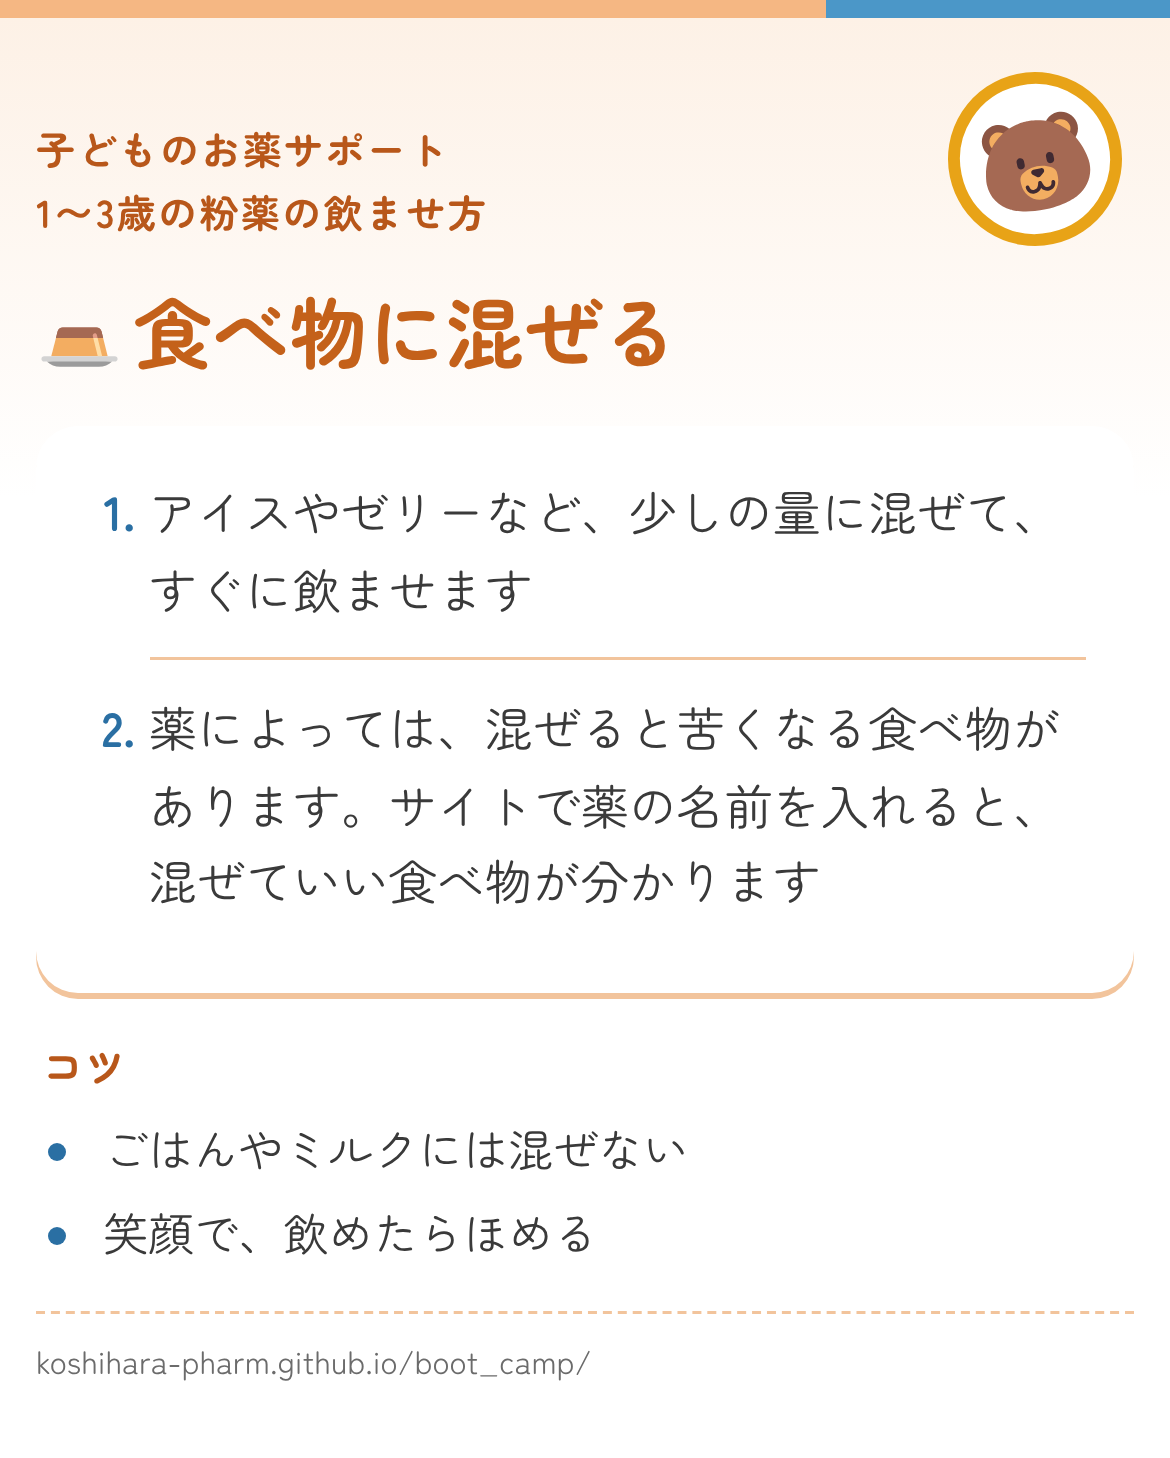
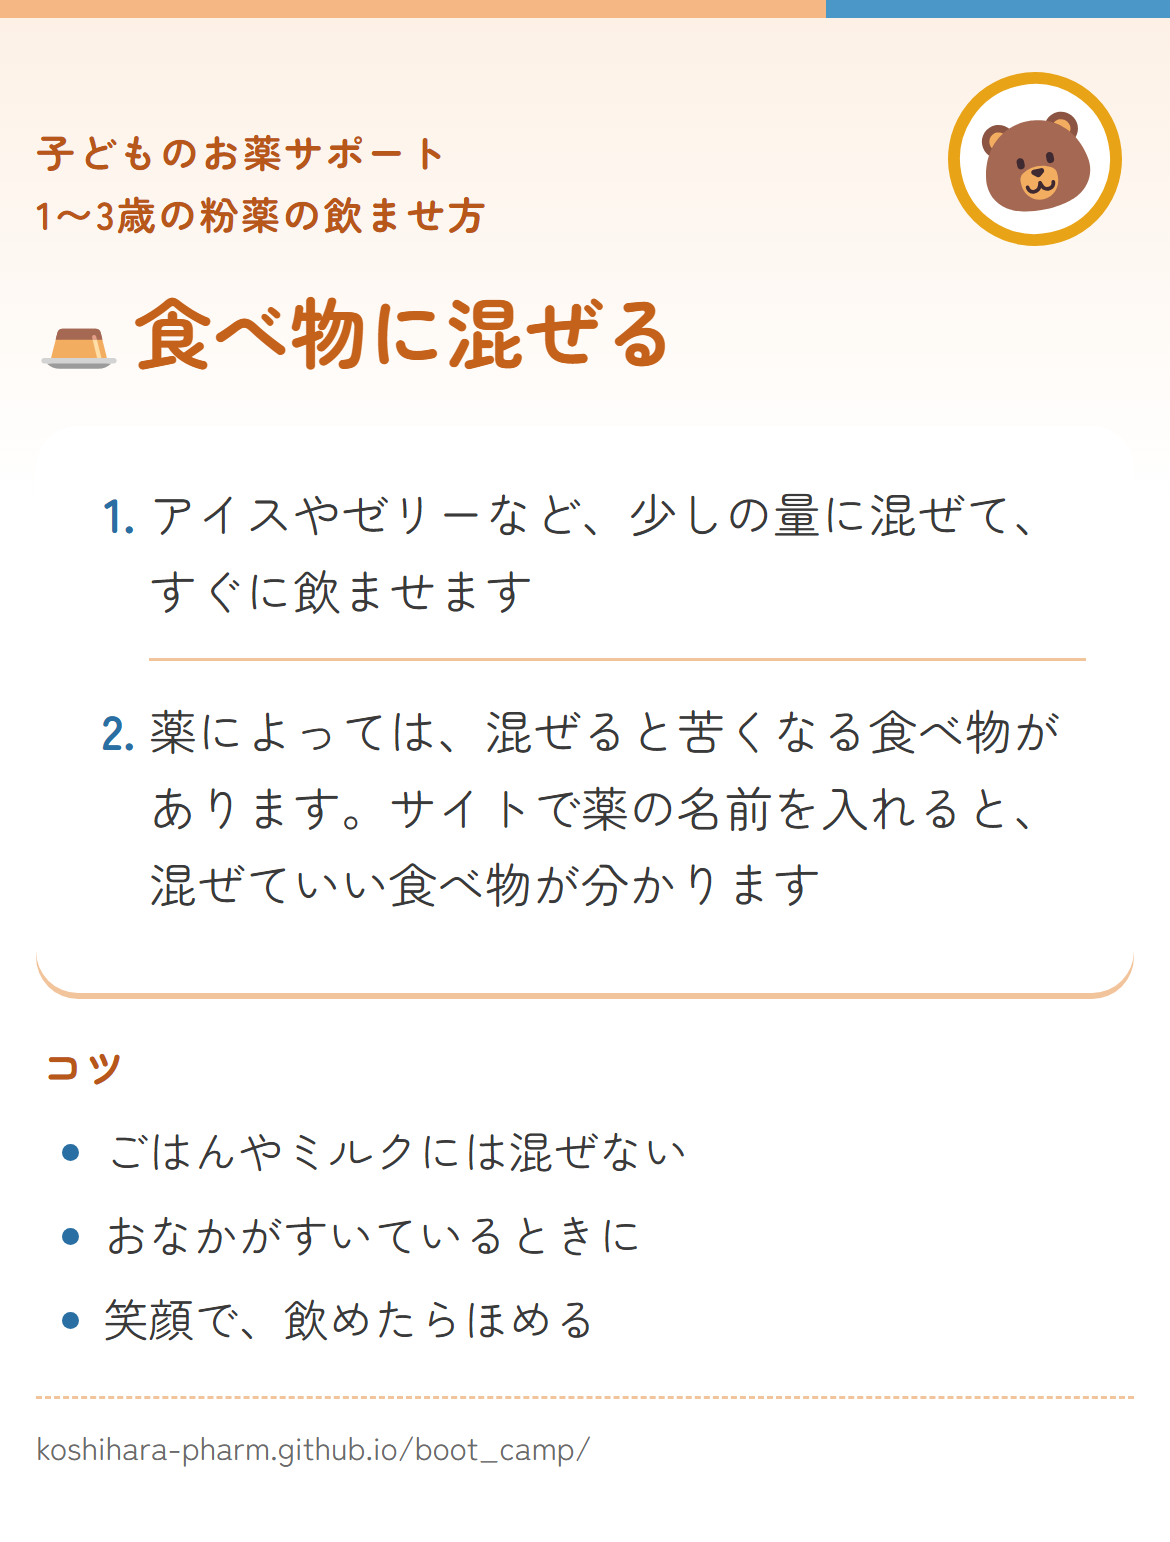
1〜3歳と4歳からに、コツ「おなかがすいているときに」を足す
旭川厚生病院のハンドブックの「授乳後や食後は、おなかがいっぱいで飲めなかったり吐いたりする。授乳前や食前に飲ませる方法もある」を、短く自分の言葉にした（ユーザー（薬剤師）の指示）。
赤ちゃんのコツと、ほかのコツは変えていない。保存用の画像（1〜3歳・4歳から）を作り直した。

diff --git a/data.js b/data.js
@@ -306,6 +306,12 @@ const HOWTO = [
     ages: ["baby"],
     body: "乳児は、おなかがすいているとき（授乳の前など）のほうが飲ませやすく、吐きにくいとされています。おなかがいっぱいだと飲めずに吐いてしまうことがあります。",
   },
+  // 1〜3歳と4歳からの分。旭川厚生病院のハンドブック（令和5年1月改訂）の「授乳後や食後は、おなかがいっぱいで飲めなかったり吐いたりする。授乳前や食前に飲ませる方法もある」を、自分の言葉で短くした（2026-11-24 ユーザー（薬剤師）の指示）
+  {
+    title: "おなかがすいているときに",
+    ages: ["toddler", "kid"],
+    body: "授乳や食事のあとは、おなかがいっぱいで飲めなかったり、食べたものと一緒に吐いたりすることがあります。授乳や食事の前など、おなかがすいているときに飲ませたほうがよいこともあります。",
+  },
   // 泣いているときのスポイトは、くるみ薬局 2019-03-25 の記事（新生児〜乳児の段）から、自分の言葉で書いた（2026-10-29 ユーザーの指示）
   {
     title: "泣いているときに飲ませてもいい",

diff --git a/index.html b/index.html
@@ -411,7 +411,7 @@
 </dialog>
 
 <!-- data.js を直したら ?v= の日付も変える。古い data.js をブラウザが使い続けないようにするため -->
-<script src="data.js?v=2026-11-22a"></script>
+<script src="data.js?v=2026-11-24a"></script>
 <script>
 
   // ---- 小さな道具 ----

diff --git a/CLAUDE.md b/CLAUDE.md
@@ -185,7 +185,7 @@ Claude がやること:
   - トップの説明文は「薬の名前を入れると、味と、混ぜていい食べ物が分かります。」だけにする。何のページかは見出し「子どもの粉薬を、飲みやすく」で伝わるため（2026-10-31 ユーザーと決定。前は頭に太字で「粉薬（こなぐすり）のためのページです」と書いていたが、「粉薬のため」は意味がおかしいとユーザー）。検索欄は「粉薬の名前で探す」にする。シロップや錠剤がないことは書かない（2026-10-27 ユーザーと決定）。2026-11-10 に、トップの説明文を外し、よくある入力欄の形にした: 欄の上に名前「粉薬の名前で探す」、欄の中に「例: クラリス」、欄の下に「味と、混ぜていい食べ物が分かります」（ユーザー「シンプルに、分かりやすく」「王道のデザインで」）。同じ日に、欄の下の文を「薬の味と、混ぜていい食べ物が分かります」に変えた（ユーザーの指示）
   - 薬の一覧と「準備中」（2026-11-03 ユーザーと決定。docs/17 の 8、計画は docs/plan_kusuri_ichiran.html）: NDB オープンデータの 0〜9歳の処方の上位60のうち、まだ入っていない粉薬（特殊なミルクは外す）を data.js の PREPARING に持ち、検索で当たったら「準備中」と、薬剤師に聞く案内だけを出す（味や混ぜ方は書かない）。調べて足したら PREPARING から消す。検索の欄のすぐ下に小さいリンク「薬の一覧を見る（あいうえお順）」を置き、一覧の画面（#list）にも検索の欄を置く。一覧は製品名の行だけを並べる（2026-11-07 ユーザーの判断。11-03 には一般名の行も並べていた）。製品名の行の下には、小さく一般名を出す。漢方は、名前の下に読みがなをひらがなで小さく出す（2026-11-07 ユーザーの指示。docs/18 の 15-1）。行の決まり: 親は薬袋の製品名で探すので、後発品があるものは後発品の行を1つ、先発品があるものは先発品の行を1つ出す。形ごとに後発品の行を増やさない（同日ユーザーの指示）。販売が終わった製品（今の薬価のリストに名前が無いもの）は、サイトの薬からも準備中からも外す（同日ユーザーの判断。アレジオン・テオドール・ムコサールの各ドライシロップ、メプチン顆粒、アセトアミノフェン原末、モニラック原末を外した）。一般名の行には、一般名の名前で売られている後発品の粉の形をつける（例: クレマスチンドライシロップ、カルボシステインドライシロップ・細粒。data.js の genericForm）。画面では「DS」と書かず「ドライシロップ」にそろえる。検索では薬袋の「DS」も「ドライシロップ」として扱う（同日ユーザーの指示）。製品名に一般名がそのまま入っている薬と、一般名の名前の製品が無い薬（マクロゴール、ケトチフェンなど）は、一般名の行を出さない（一般名で探すと製品名の行が出る）。アセトアミノフェンは、後発品の DS と細粒を「アセトアミノフェンDS・細粒」の1行にして、カロナール細粒の情報を出す（一般名の行なので味は甘い・苦いの目安だけ）。原末は外した（同日ユーザーの判断）。入っている薬に印はつけない。検索で製品名に当たったとき（例: 「クラリス」）は製品名の行だけを出し、一般名の行は一般名まで入れたとき（例: 「クラリスロ」、ジェネリックの薬袋の名前）だけ出す（2026-11-07 ユーザーの判断）
   - 飲ませ方のコツは、まず粉薬にしぼる。「薬の形は？」（粉・シロップ・錠剤）のボタンは外し、年齢だけで選ぶ（2026-10-26 ユーザーの判断）
-  - 「のませかたが わからない」の画面は飲ませ方だけにする（「コツ」のタブは 2026-10-27 に外した。ユーザーの指示）。いちばん上で年齢（0〜1歳／1〜3歳／4歳から）を選ぶ。選ぶと、時期の特徴、「まずは水で」の考え方（短く。0〜1歳だけは「甘いものに混ぜる」のかわりに「ミルクには混ぜない」。10-27 ユーザーの指示）、やり方のまとまりが出る（2026-11-13 に、「まずは水で」の文を、時期の特徴の下から、いちばん上のやり方のまとまりの見出しのすぐ下に動かし、小さい前置き（1〜3歳と4歳からは「甘いものに混ぜる前に」、0〜1歳は「ミルクに混ぜる前に」）→ 見出し「まずは、少しの水で飲ませてみましょう」→ うすいオレンジの面に「なぜ？」（理由を箇条書きで2つ）→ 小さく「やり方は3つ」→ やり方、の並びにした（ユーザーと壁打ちして決めた。印の ⚠ は、混ぜることが危ないように見えるのでつけない。「少しの」は量が伝わるように残す）。同じ日に、「なぜ？」の理由を1文ずつに短くし、0〜1歳の前置きを「ミルクには混ぜずに」にした（ユーザー「文章が多い。もうちょいシンプルに」。「ミルクに混ぜる前に」だと、あとでミルクに混ぜてよいように読めるため。前の文は data.js の注にある）。中身は変えず、理由を先に言う順番に並べかえた（薬剤師の確認待ち）。ユーザーの指示「水で飲ませることをおすすめ、なぜ、理由の順番で」「なぜに統一しよう」。2026-11-10 から、やり方は全部閉じた形で出し、押すと開く。開くと手順の上に Codex で作った絵（img/howto）を出す。ユーザー「パッと見の文字が多すぎる」。前は、いちばん上のまとまりを全部開いていた）。0〜1歳: スポイト・哺乳びん・お薬だんご（どれでも。お薬だんごは 10-29 に足した。見出しは 2026-11-13 に、ほかの年齢と同じにそろえた。ユーザー「水なのが分かりにくい。まずは水、のニュアンスに」）。1〜3歳: 少しの水でとかす・薬の袋の中で混ぜる・お薬だんご（どれか）→ むずかしいときは食べ物に混ぜる（10-29 に、旭川厚生病院の資料をもとに書き直した）。4歳から: 少しの水でとかす・薬の袋の中で混ぜる・水で「おとな飲み」（なぜ飲むか話すを含む）のどれか（10-29 に足した）。形を変えたいときの相談の1文は 10-27 に外した。4歳からも「むずかしいときは → 混ぜる」を出す（10-27 にいったん外し、同じ日に足し直した）。「混ぜる」からは「まぜていい？」（薬の名前の欄）へ行く。やり方の下に、その年齢のコツを閉じた形で出す。コツはやり方と重ならない4つだけ（服薬ゼリーで包む＝1〜3歳と4歳から、おなかがすいているときに＝0〜1歳、口直し・笑顔でほめる＝全部の年齢）。文は資料に似せず、出どころは各やり方の下ではなくページの下にまとめて出す（2026-10-26、10-27 ユーザーと決定。年齢の順番はくるみ薬局 2019-03-25 の記事から）
+  - 「のませかたが わからない」の画面は飲ませ方だけにする（「コツ」のタブは 2026-10-27 に外した。ユーザーの指示）。いちばん上で年齢（0〜1歳／1〜3歳／4歳から）を選ぶ。選ぶと、時期の特徴、「まずは水で」の考え方（短く。0〜1歳だけは「甘いものに混ぜる」のかわりに「ミルクには混ぜない」。10-27 ユーザーの指示）、やり方のまとまりが出る（2026-11-13 に、「まずは水で」の文を、時期の特徴の下から、いちばん上のやり方のまとまりの見出しのすぐ下に動かし、小さい前置き（1〜3歳と4歳からは「甘いものに混ぜる前に」、0〜1歳は「ミルクに混ぜる前に」）→ 見出し「まずは、少しの水で飲ませてみましょう」→ うすいオレンジの面に「なぜ？」（理由を箇条書きで2つ）→ 小さく「やり方は3つ」→ やり方、の並びにした（ユーザーと壁打ちして決めた。印の ⚠ は、混ぜることが危ないように見えるのでつけない。「少しの」は量が伝わるように残す）。同じ日に、「なぜ？」の理由を1文ずつに短くし、0〜1歳の前置きを「ミルクには混ぜずに」にした（ユーザー「文章が多い。もうちょいシンプルに」。「ミルクに混ぜる前に」だと、あとでミルクに混ぜてよいように読めるため。前の文は data.js の注にある）。中身は変えず、理由を先に言う順番に並べかえた（薬剤師の確認待ち）。ユーザーの指示「水で飲ませることをおすすめ、なぜ、理由の順番で」「なぜに統一しよう」。2026-11-10 から、やり方は全部閉じた形で出し、押すと開く。開くと手順の上に Codex で作った絵（img/howto）を出す。ユーザー「パッと見の文字が多すぎる」。前は、いちばん上のまとまりを全部開いていた）。0〜1歳: スポイト・哺乳びん・お薬だんご（どれでも。お薬だんごは 10-29 に足した。見出しは 2026-11-13 に、ほかの年齢と同じにそろえた。ユーザー「水なのが分かりにくい。まずは水、のニュアンスに」）。1〜3歳: 少しの水でとかす・薬の袋の中で混ぜる・お薬だんご（どれか）→ むずかしいときは食べ物に混ぜる（10-29 に、旭川厚生病院の資料をもとに書き直した）。4歳から: 少しの水でとかす・薬の袋の中で混ぜる・水で「おとな飲み」（なぜ飲むか話すを含む）のどれか（10-29 に足した）。形を変えたいときの相談の1文は 10-27 に外した。4歳からも「むずかしいときは → 混ぜる」を出す（10-27 にいったん外し、同じ日に足し直した）。「混ぜる」からは「まぜていい？」（薬の名前の欄）へ行く。やり方の下に、その年齢のコツを閉じた形で出す。コツはやり方と重ならない4つだけ（服薬ゼリーで包む＝1〜3歳と4歳から、おなかがすいているときに＝全部の年齢（0〜1歳は「赤ちゃんは、」つき。1〜3歳と4歳からの分は 2026-11-24 に足した。ユーザーの指示）、口直し・笑顔でほめる＝全部の年齢）。文は資料に似せず、出どころは各やり方の下ではなくページの下にまとめて出す（2026-10-26、10-27 ユーザーと決定。年齢の順番はくるみ薬局 2019-03-25 の記事から）
   - 「どれで のむ？」（子どもが混ぜていい食べ物を選ぶ）は 2026-10-14 に作ったが、同じ日に外した。毎回選ばせるのは、保護者から見ると手間が大きいため（ユーザーの判断）
 - 保存用の飲ませ方の画像（docs/18 の 7-1。card/年齢-やり方.png。card/make.cjs で data.js から作る）には、出どころと「医師・薬剤師に相談」を入れない。下にサイトの URL だけを置き、出どころはサイトで見てもらう（2026-11-03 ユーザーの判断）。1枚に1つのやり方だけを詳しく出し、コツはやり方ごとの大事なことと、全体に効くことを縦の箇条書きで出す（2026-11-04 ユーザーの判断）。やり方ごとのコツも、手順の中に枠で出さず、下の「コツ」の欄にまとめる（同日ユーザーの指示。ui-check の「近いものは仲間に見える」より、こちらを取った）。やり方ごとのコツ（data.js の METHODS の tips）は画像にだけ出し、サイトには出さない（同日ユーザーの判断。サイトの「コツ」の欄に並べたら見にくかった）。サイトの手順は元の文のままにし、画像ではコツと同じ文（cardDrop）を手順から抜く。各やり方の手順の下に「📥 この飲ませ方を保存」のボタン（2026-11-07 に「📥 この飲ませ方の画像を保存」に名前を変えた）（控えめな link-button の形）を置き、押すとその画像が大きく出て、長押しで写真に保存する（同日。計画では「コツの下に1つ」だったが、画像がやり方ごとになったので、やり方ごとに置いた）
 - 保存用の薬ごとの画像（card/drug/薬の名前.png。card/make.cjs で data.js から、サイトに入っている薬すべての分を作る）: 薬の名前、味、ひとこと、◎ 混ぜると飲みやすい／○ 混ぜても大丈夫／× 混ぜないほうがいい、その薬だけのコツを出す。参考にした資料は入れない（2026-11-05 ユーザーの判断。「守ること」の例外。いったん短い名前と年で入れたが外した）。どの薬にも言える一般的なコツ（「混ぜるのは、飲ませる直前に…」）は出さない。薬の画面の「混ぜるときのコツ」の下、「参考にした資料」の上に「📥 この薬の情報を保存」のボタンを置く（2026-11-07 に「📥 この薬の画像を保存」に名前を変えた。下のブックマークと分けるため）。薬剤師の確認待ちの薬も、サイトで公開している情報なので画像にしてよい（2026-11-05 ユーザーと決定。計画は html-plan）

diff --git a/docs/07_demo_data.md b/docs/07_demo_data.md
@@ -59,6 +59,7 @@
 | 味の濃いものに混ぜる | 熊本 くすりの話、PMDA | 「少しだけに混ぜる」「ミルクやおかゆなど主食には混ぜない」（PMDA）を足した |
 | 服薬ゼリーで包む | おくすり飲めたね（販売店の商品説明） | 前の文の「色が変わる」は出どころで確かめられなかったので消した。「フルーツ味は薬と混ぜると苦味を感じやすくなることがある」「チョコ味は抗生物質や苦い薬向け」（商品説明）に直した |
 | 赤ちゃんは、おなかがすいているときに | 診断と治療社、札幌市立病院 | 札幌市立病院の「ミルクの前に」を足した |
+| おなかがすいているときに（1〜3歳と4歳から。2026-11-24 に足した） | 旭川厚生病院 | ハンドブックの「授乳後や食後は飲めなかったり吐いたりする。授乳前や食前に飲ませる方法もある」を、短くした（ユーザー（薬剤師）の指示） |
 
 - [ ] 上の 5 つを、薬剤師（ユーザー）が出どころを開いて確かめる
 - [ ] 足りない方法がないか（例: シロップ、坐薬、嫌がるときの声かけ）

diff --git a/docs/22_ui_sekkei.md b/docs/22_ui_sekkei.md
@@ -569,3 +569,7 @@
 | 誰でも（第6章） | ○ | 色や形は変えていない |
 | 流れ（第7章） | △ | 「← 戻る」の行き先は前からの宿題のまま |
 | 入力（第8章） | ○ | 「しょうけんちゅうとう」「小建中湯」で見つかる（読みがなは yomi） |
+
+### 2026-11-24（1〜3歳と4歳からに、コツ「おなかがすいているときに」を足した）
+
+幅 390px で1〜3歳を撮って見た。コツは3つから4つ（4歳からも4つ）になった。形と言葉は、0〜1歳の「赤ちゃんは、おなかがすいているときに」とそろえた（第1章 一貫性 ○、第5章 量 ○）。保存用の画像（1〜3歳・4歳から）のコツの欄にも、見出しが1行ふえた
